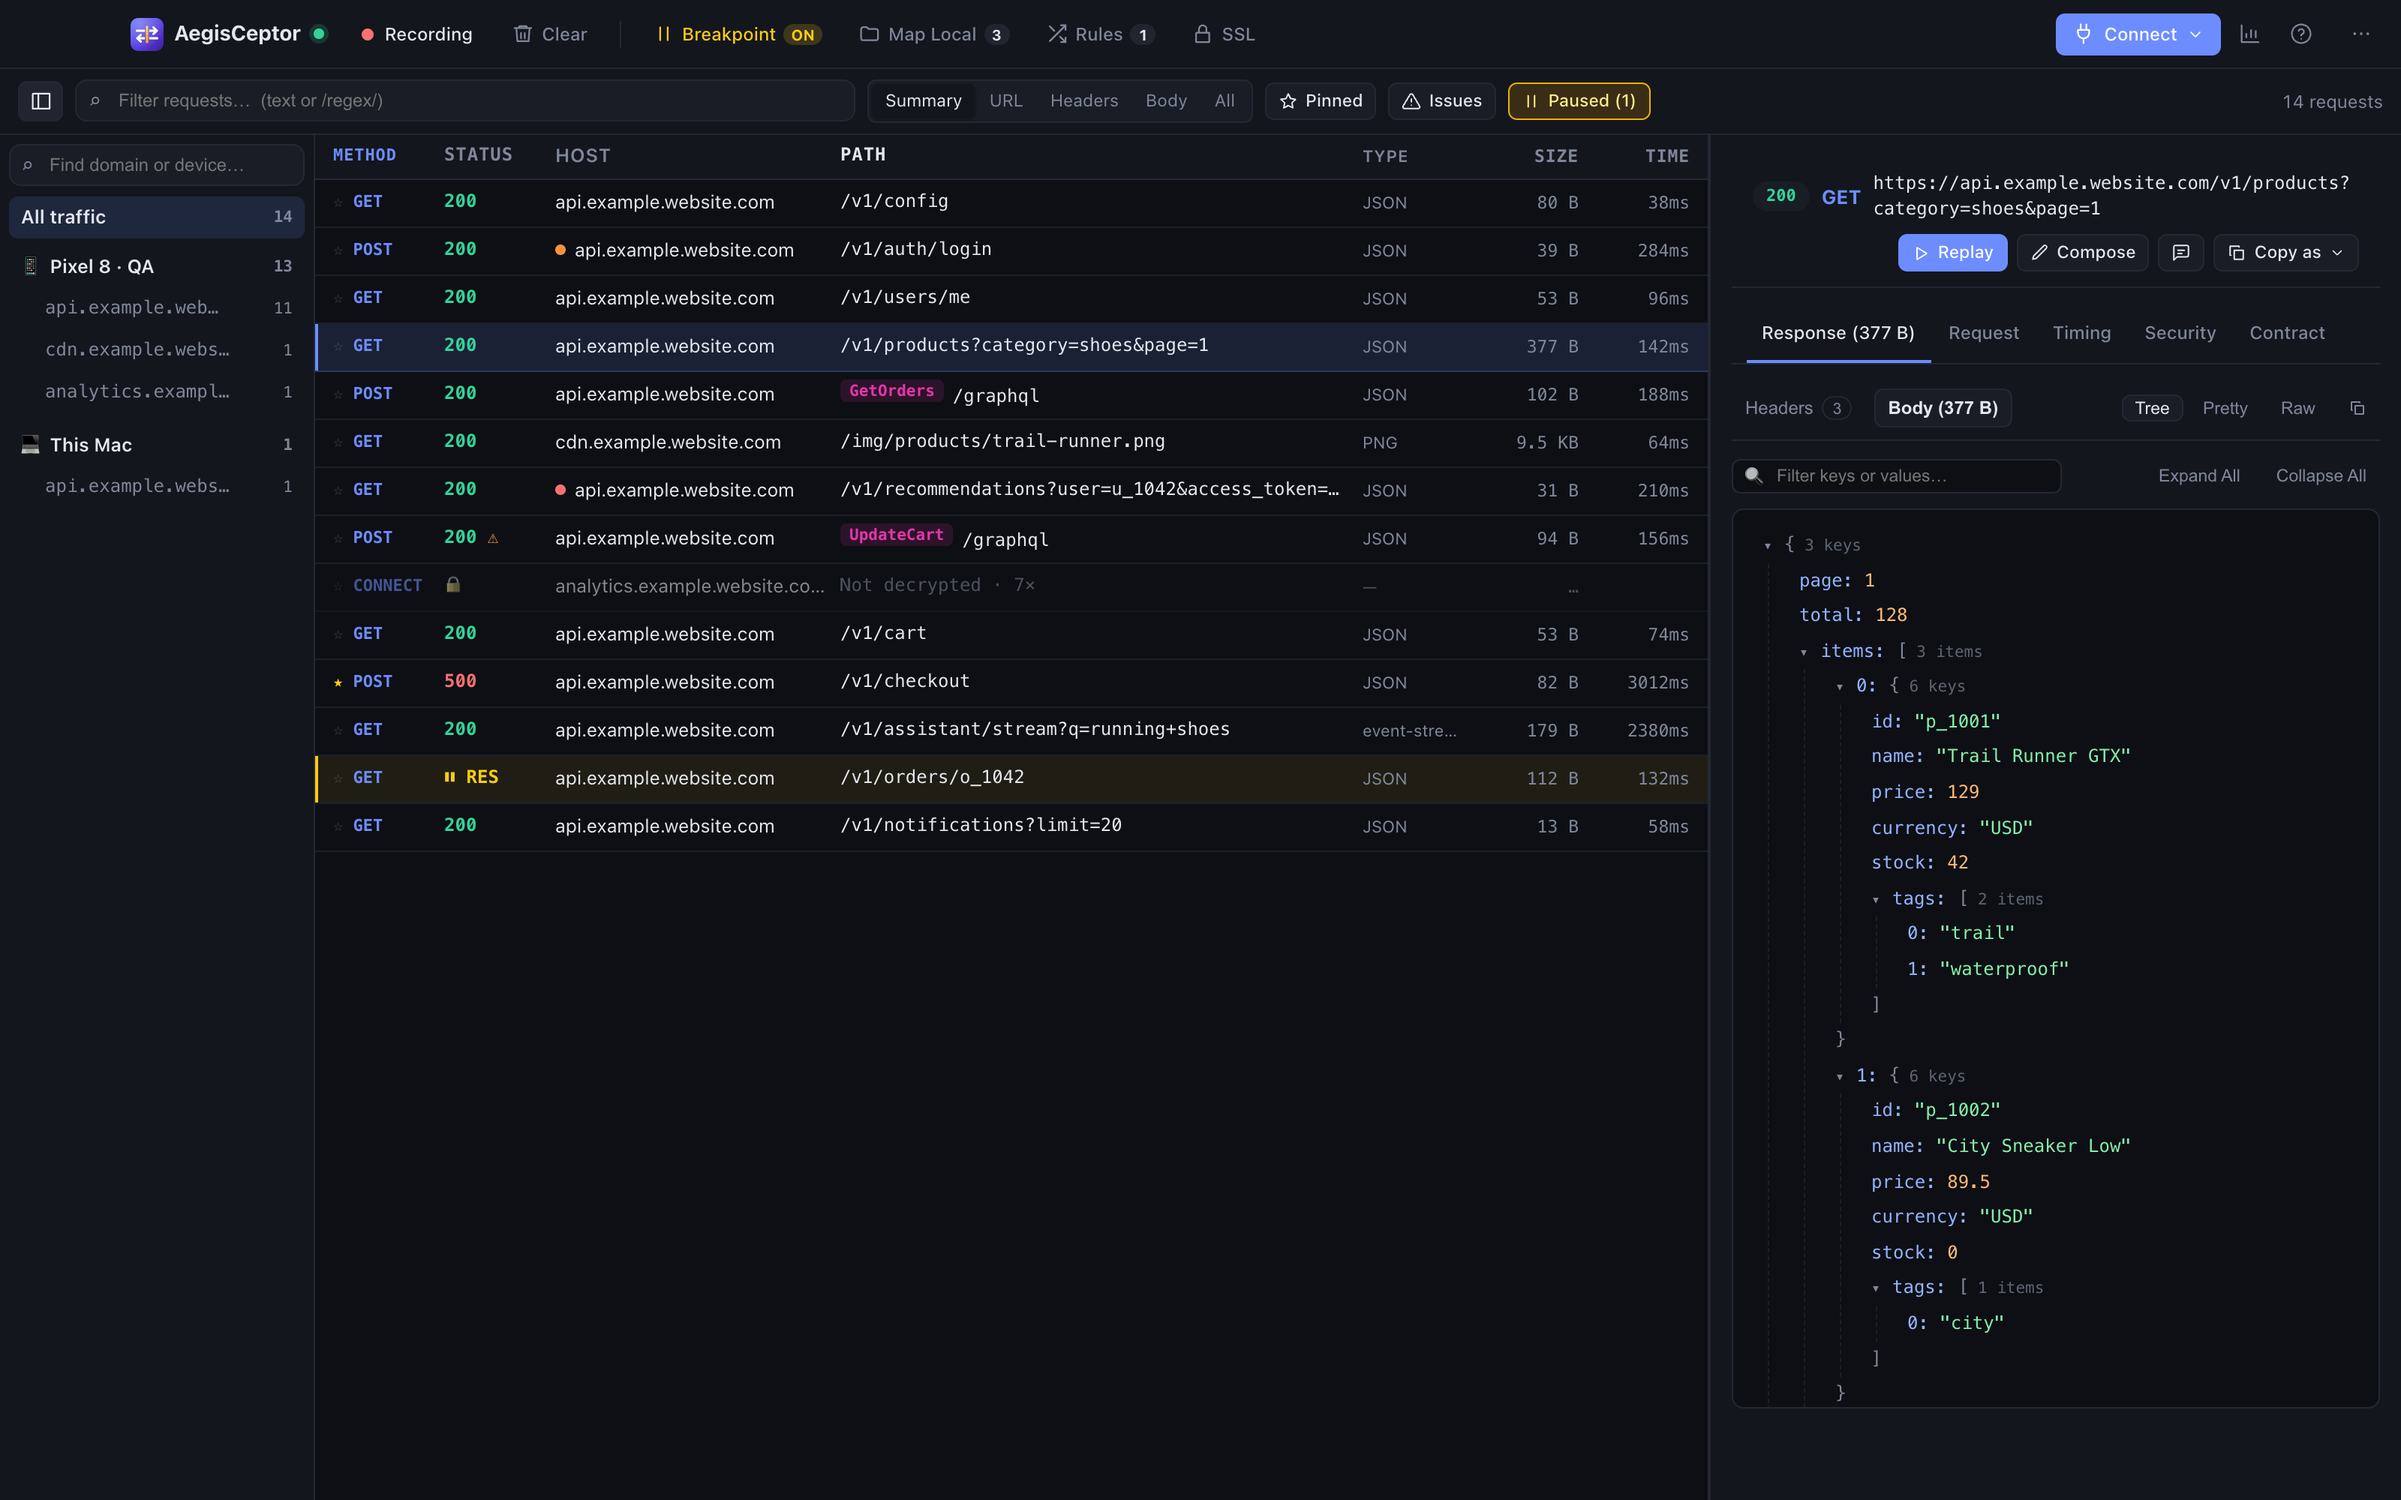
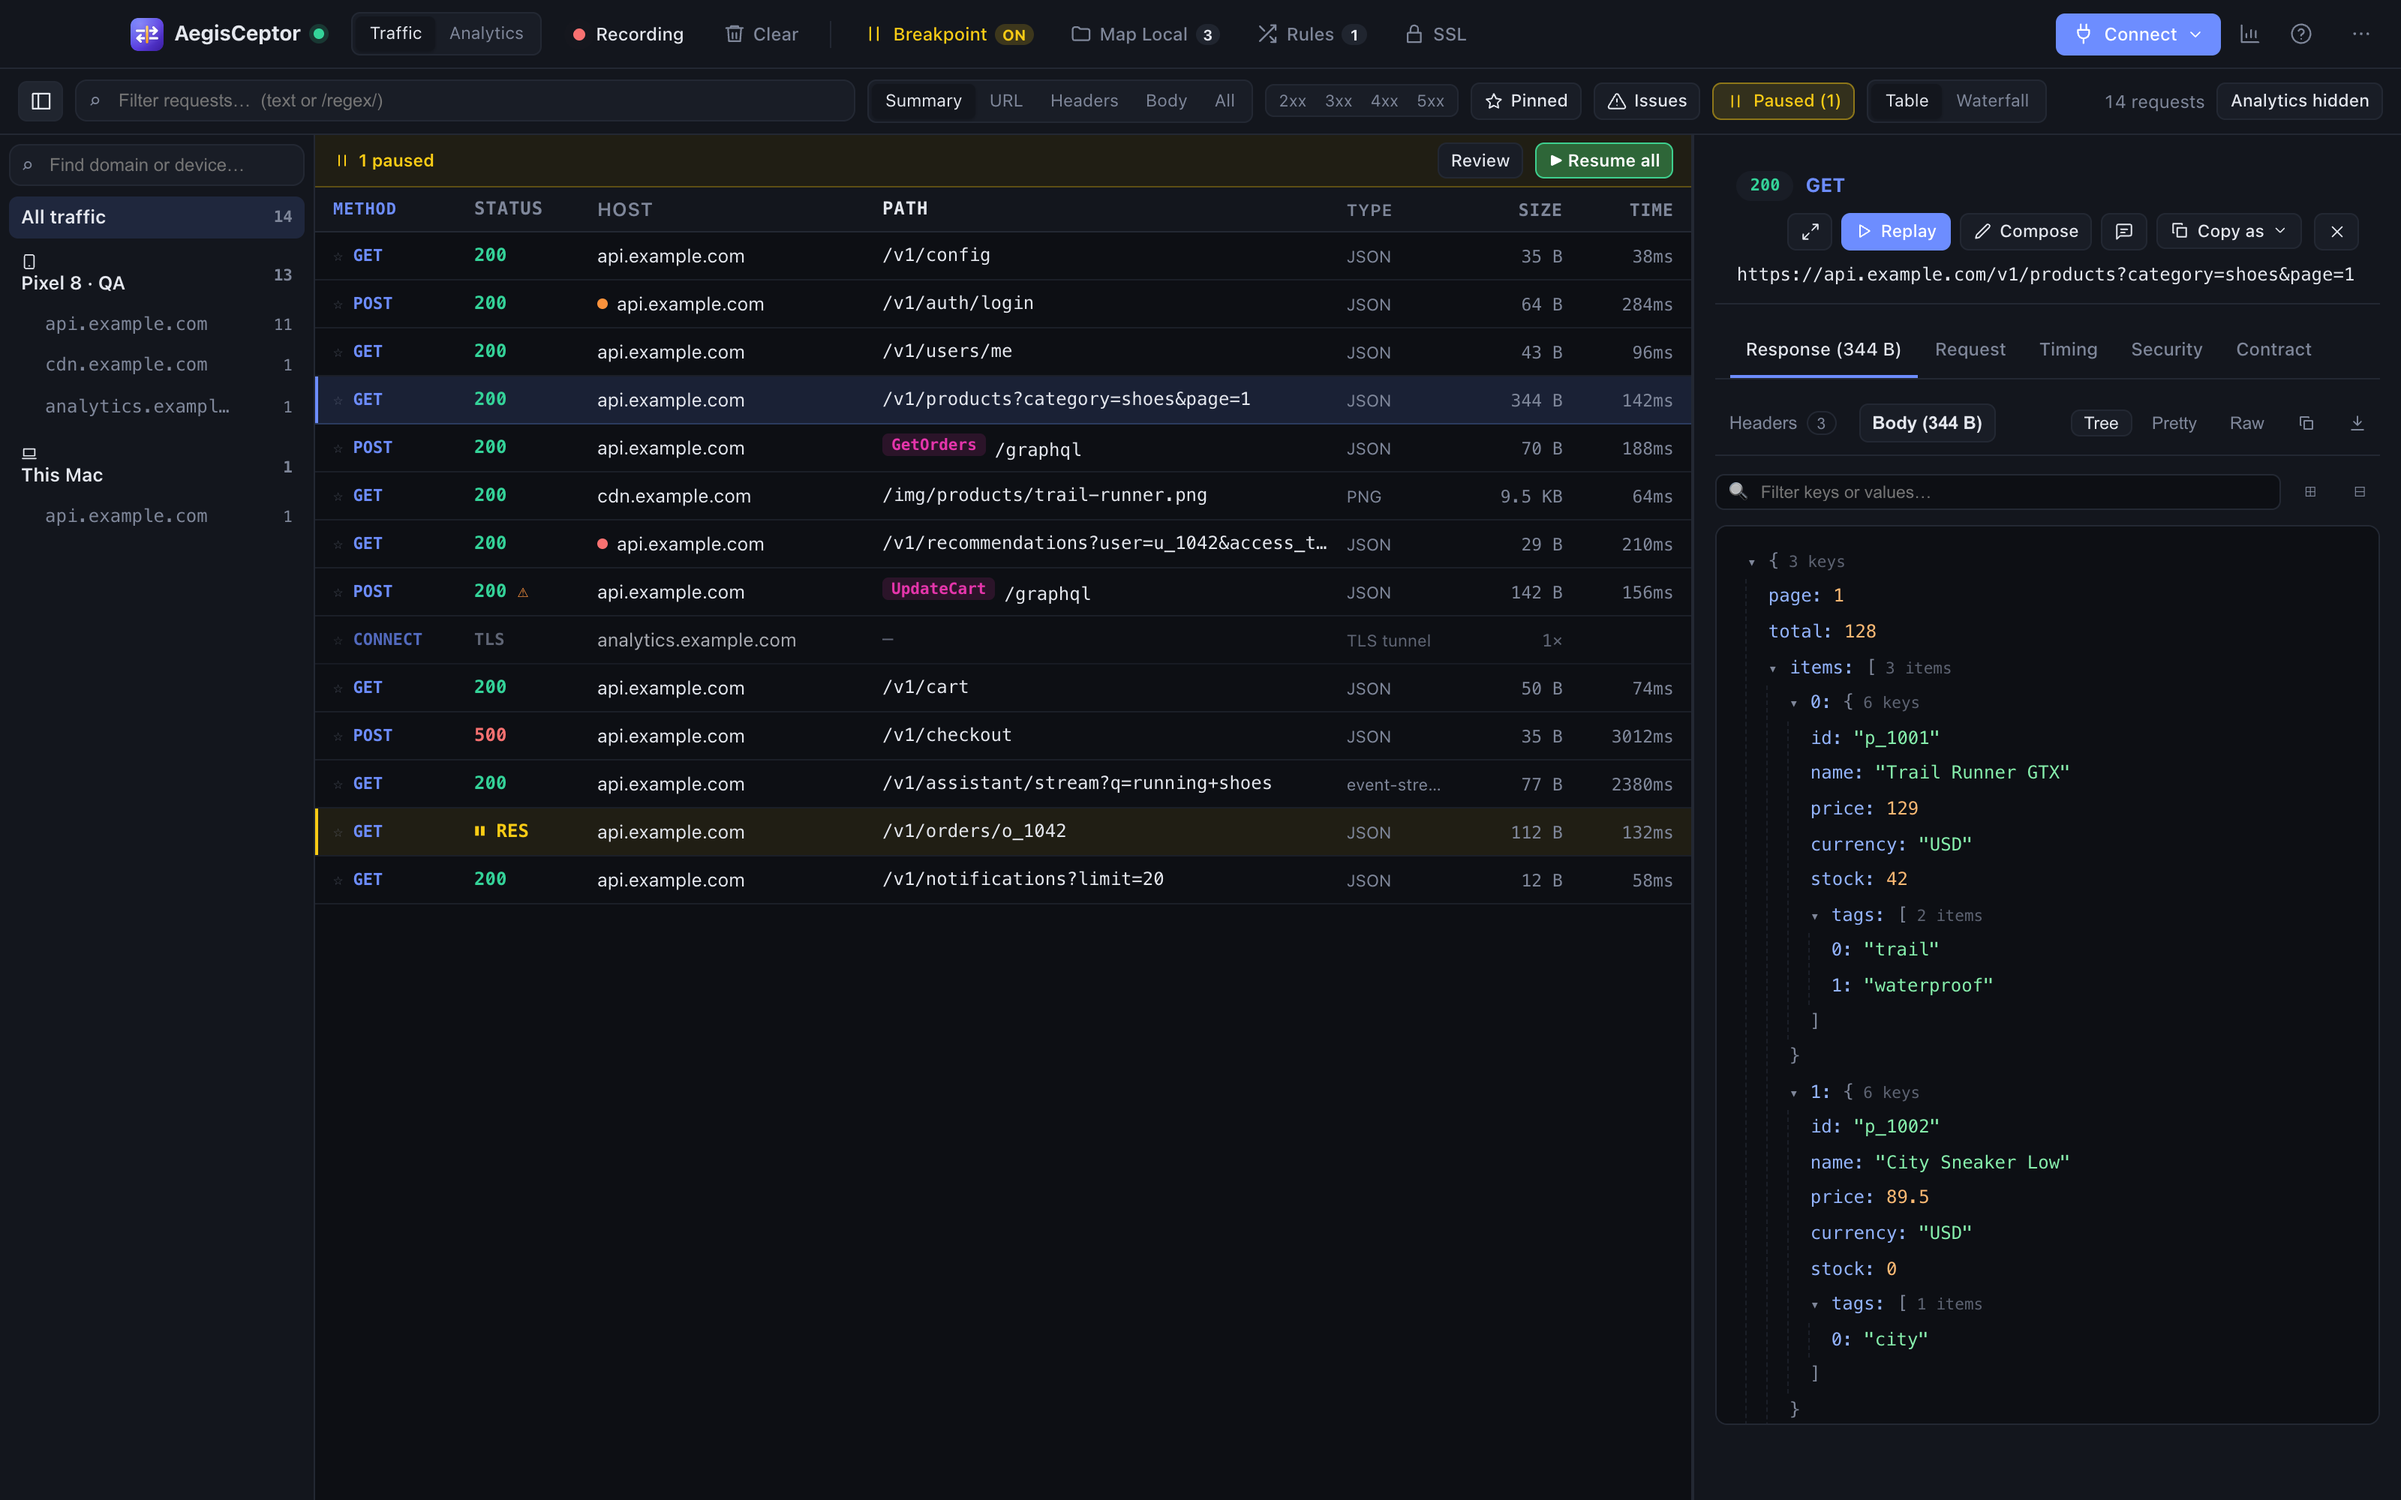
README: feature overview instead of per-version notes, new screenshots (Analytics, Map Local, traffic, breakpoint, GraphQL), links to aegisceptor.com

diff --git a/README.md b/README.md
@@ -1,46 +1,102 @@
-# AegisCeptor | Releases
+# AegisCeptor
 
-Official installer for **AegisCeptor** on macOS (Apple Silicon, M1 and newer).
-mitmproxy and the bridge are bundled inside the app: no Homebrew, Node or Python needed.
+**The HTTP/HTTPS debugging proxy made for Mac.** See, pause, edit and mock every request from mobile apps,
+browsers and simulators, and check the Firebase and Google Analytics events they send. Built for developers and
+QA engineers.
 
-Website: **[aegisceptor.com](https://aegisceptor.com)** · Created by **Prontera Labs**.
-
-**Try it free for 14 days**, then buy a license at [aegisceptor.com](https://aegisceptor.com/#pricing):
-**Lifetime** ($25, 1 Mac) or **Yearly** ($15 for 1 year of use, 1 Mac, no auto-renewal).
+**[aegisceptor.com](https://aegisceptor.com)** · [Download](https://aegisceptor.com/download) ·
+[Pricing](https://aegisceptor.com/#pricing) · [FAQ](https://aegisceptor.com/#faq) · by **Prontera Labs**
 
 ![AegisCeptor](screenshots/cover.png)
 
-**New in 2.4:** a command palette (`⌘K`), quick status filters (2xx–5xx), compact rows, a theme that follows
-macOS, save a response body to a file, throttle per host, and roomier popups with a clearer close button.
+- **14 days free**, every feature, no account or card needed.
+- **macOS 12 or newer** on Apple Silicon (M1 and newer).
+- **Signed and notarized by Apple.** Download, drag to Applications, open. No Homebrew, Node, Python or Terminal steps.
+- **Your Mac's proxy settings are never changed.** Closing the app never leaves a dead network behind.
 
-**New in 2.3:** licenses bought through Creem, a reminder 14 days before a Yearly license ends, and a clearer
-Map Local rule list that shows the full path.
+![Live traffic with a JSON tree](screenshots/01-traffic-json.png)
 
-**New in 2.0.2:** Map Local works like Mockoon: route parameters in URL patterns (`api.myapp.com/users/:id`),
-conditions on a route parameter, a **!** button to invert a condition, `{{urlParam 'id'}}` in responses, and a
-⚑ default response used when no condition matches.
+## Features
 
-**New in 2.0:** signed and notarized by Apple: download, drag to Applications, open. No Terminal step needed.
+### Inspect
 
-**Since 1.4:** 14-day free trial and license keys. The toolbar shows the days left; activate your key in **About**.
+- **Live traffic** from phones, browsers, simulators and terminals, grouped by device and domain, with filters and sortable columns.
+- **Body viewers** for JSON (tree, pretty, raw), form data, images, GraphQL, Protobuf, gRPC and MessagePack.
+- **Search everywhere** in URLs, headers and bodies, or inside one body with highlighted matches.
+- **Timing and waterfall**: connect, TLS, waiting and download per request, plus a timeline of the whole page or screen.
+- **WebSockets and Server-Sent Events**, every message with the time it arrived.
+- **Insights**: error rate, p50/p95 latency, top domains, and the slowest and largest requests.
 
-**Since 1.3:** automatic updates, bug reports with masked secrets, a waterfall timeline, alerts when a request
-fails, repeat a request N times, and OpenAPI generation plus API change detection from captured traffic.
+### Pause and edit
 
-**Since 1.2:** connect AI assistants (Claude Code, Codex CLI, Antigravity, Claude Desktop, Cursor…) through MCP in one
-click, session files, Copy as cURL / fetch / Python / Swift / Kotlin, WebSocket breakpoints and a native macOS menu bar.
+- **Breakpoints** on requests and responses: change the method, URL, status, headers or body, then resume or abort.
+- **WebSocket breakpoints**: hold a message, edit it, then send or drop it.
+- **Compose and repeat**: edit and resend any request, or repeat it N times to measure p50/p95.
 
-![AegisCeptor traffic list with a JSON response](screenshots/01-traffic-json.png)
+### Mock and change traffic
+
+- **Map Local**: answer a URL with your own response from text or a file, with templates (uuid, now, faker…).
+  One URL can hold several responses picked by conditions (query, header, body, route parameter…), and you switch
+  the default in one click while your app keeps running.
+- **Map Remote**: send production calls to localhost or a staging server.
+- **Rewrite and Block**: set or remove headers, replace body text, change the status, or block a request.
+- **Throttle and Chaos**: 3G, 4G or Edge, random latency, server errors and dropped connections.
+- **OpenAPI / Swagger**: generate mocks from a spec and check live responses against it.
+- **Scripts**: Python rules for anything the built-in rules cannot do.
+- **Apply without closing**: rule windows apply changes with **Apply** or **⌘S**, and on/off switches apply right away.
+
+### Check analytics events
+
+- **Firebase and Google Analytics 4** events in one live list, with every parameter and user property, filters,
+  search and a summary per event.
+- **Android** (phone or emulator): events are read from the device log over adb. No proxy or certificate to set
+  up, and Firebase debug mode turns on in one click.
+- **iOS**: events from an iPhone on the same Wi-Fi, or open your app in the Simulator with debug mode on.
+- **Websites**: GA4 and the Firebase JS SDK, including server-side tagging and Google tag gateway.
+
+### Find problems
+
+- **GraphQL errors**: operation names, and errors even when the HTTP status is 200.
+- **Security hints**: secrets in URLs, insecure cookies, risky CORS and missing security headers.
+- **Alerts**: a macOS notification when a request you watch fails or gets slow.
+- **API from traffic**: build an OpenAPI spec from captured traffic and see what changed in the API.
+- **Compare** any two requests side by side.
+
+### AI assistants (MCP)
+
+- **One-click connect** for Claude Code, Codex CLI, Antigravity, Claude Desktop, Gemini CLI, Cursor, VS Code and Windsurf.
+- Your assistant reads captured traffic, explains failures and creates mocks, rewrites and breakpoints. It cannot
+  resume a paused request or delete traffic. It uses your own AI subscription, so there is no API key.
+
+### Connect
+
+- **Phone over Wi-Fi** (Android and iOS): set the shown proxy and install the certificate by scanning a QR code.
+- **Browser**: a ready-made Chrome window, or the **Chrome extension** for your everyday browser
+  ([download](https://aegisceptor.com/aegisceptor-chrome-extension.zip)).
+- **iOS Simulator and Mac apps, Android Emulator, terminal** (curl, Node, Python, git).
+- **HTTPS your way**: decrypt everything or only the hosts you choose.
+
+### Share
+
+- **Sessions and HAR**: save requests, rules, comments and highlights in one file, or export and open HAR for
+  everything, one device or domain, or a single request.
+- **Export and import rules**: share one rule, a folder or a whole set with the files it uses. Import shows what
+  already exists and lets you replace or keep both.
+- **Copy as code**: cURL, JavaScript fetch, Python requests, Swift URLSession and Kotlin OkHttp.
+- **Bug reports** ready to paste, with tokens and passwords masked.
 
 ## Screenshots
 
 | | |
 |---|---|
-| **Breakpoints** – pause a response and edit it before it reaches the app<br>![Breakpoint](screenshots/02-breakpoint.png) | **Map Local** – mock responses, grouped into folders<br>![Map Local](screenshots/08-map-local.png) |
-| **GraphQL** – operation names and errors, even on HTTP 200<br>![GraphQL error](screenshots/03-graphql-error.png) | **Security** – hints such as secrets in URLs<br>![Security](screenshots/04-security.png) |
-| **Streaming (SSE)** – every event with its arrival time<br>![SSE stream](screenshots/05-sse-stream.png) | **Timing** – connect, TLS, waiting and download per request<br>![Timing](screenshots/06-timing.png) |
-| **Insights** – error rate, latency, slowest and largest requests<br>![Insights](screenshots/07-insights.png) | **Light theme**<br>![Light theme](screenshots/09-light-theme.png) |
-| **Connect** – phone, browser, iOS Simulator / Mac app, Android Emulator or terminal from one menu<br>![Connect menu](screenshots/10-connect-menu.png) | **AI assistants (MCP)** – let your own AI assistant read traffic and create mocks; no API key needed<br>![AI assistants](screenshots/11-mcp-assistants.png) |
+| **Analytics** – Firebase and GA4 events from Android, iOS and the web<br>![Analytics](screenshots/12-analytics.png) | **Map Local** – several responses per URL, export and import<br>![Map Local](screenshots/08-map-local.png) |
+| **Breakpoints** – pause a response and edit it before it reaches the app<br>![Breakpoint](screenshots/02-breakpoint.png) | **GraphQL** – operation names and errors, even on HTTP 200<br>![GraphQL error](screenshots/03-graphql-error.png) |
+| **Security** – hints such as secrets in URLs<br>![Security](screenshots/04-security.png) | **Streaming (SSE)** – every event with its arrival time<br>![SSE stream](screenshots/05-sse-stream.png) |
+| **Timing** – connect, TLS, waiting and download per request<br>![Timing](screenshots/06-timing.png) | **Insights** – error rate, latency, slowest and largest requests<br>![Insights](screenshots/07-insights.png) |
+| **Connect** – phone, browser, iOS Simulator / Mac app, Android Emulator or terminal from one menu<br>![Connect menu](screenshots/10-connect-menu.png) | **AI assistants (MCP)** – your own AI assistant reads traffic and creates mocks<br>![AI assistants](screenshots/11-mcp-assistants.png) |
+| **Light theme**<br>![Light theme](screenshots/09-light-theme.png) | |
+
+A one-minute demo video is on [aegisceptor.com](https://aegisceptor.com/#demo).
 
 ## Install
 
@@ -58,17 +114,18 @@ curl -fsSL https://raw.githubusercontent.com/jimmyleonardo/aegis-ceptor-releases
 
 ## License key
 
-During the trial the toolbar shows how many days are left. To activate a license:
+Try every feature free for 14 days. During the trial the toolbar shows how many days are left.
 
-1. Buy one at [aegisceptor.com](https://aegisceptor.com/#pricing). The key is sent to your email.
+1. Buy a license at **[aegisceptor.com/#pricing](https://aegisceptor.com/#pricing)**: **Lifetime** ($25, 1 Mac) or
+   **Yearly** ($15 for 1 year of use, 1 Mac, no auto-renewal). You get the license key after checkout.
 2. In the app, open **⋯ → About AegisCeptor**, paste the key and click **Activate**.
 
 To move a license to another Mac, click **Deactivate on this Mac** in About first, then activate it on the new Mac.
 
 ## Data
 
-Rules are stored in `~/Library/Application Support/id.aegis-sentinel.ceptor/` and the CA certificate in `~/.mitmproxy/`.
-Both are kept when you update or reinstall the app.
+Everything stays on your Mac. Rules are stored in `~/Library/Application Support/id.aegis-sentinel.ceptor/` and
+the CA certificate in `~/.mitmproxy/`. Both are kept when you update or reinstall the app.
 
 ## Uninstall
 
@@ -82,10 +139,10 @@ rm -rf ~/Library/Application\ Support/id.aegis-sentinel.ceptor ~/.mitmproxy
 
 ## License
 
-AegisCeptor is free to try for 14 days. After that it needs a license key, valid for personal and commercial work. See [LICENSE](LICENSE) for the terms
-(no resale, no modified redistribution, no warranty). Bundled open-source components are listed in
-[THIRD_PARTY_NOTICES.md](THIRD_PARTY_NOTICES.md).
+AegisCeptor is free to try for 14 days. After that it needs a license key, valid for personal and commercial work.
+See [LICENSE](LICENSE) for the terms (no resale, no modified redistribution, no warranty). Bundled open-source
+components are listed in [THIRD_PARTY_NOTICES.md](THIRD_PARTY_NOTICES.md).
 
 ---
 
-Made by Prontera Labs · [aegisceptor.com](https://aegisceptor.com) · admin@pronteralabs.id
+Made by Prontera Labs · **[aegisceptor.com](https://aegisceptor.com)** · admin@pronteralabs.id
